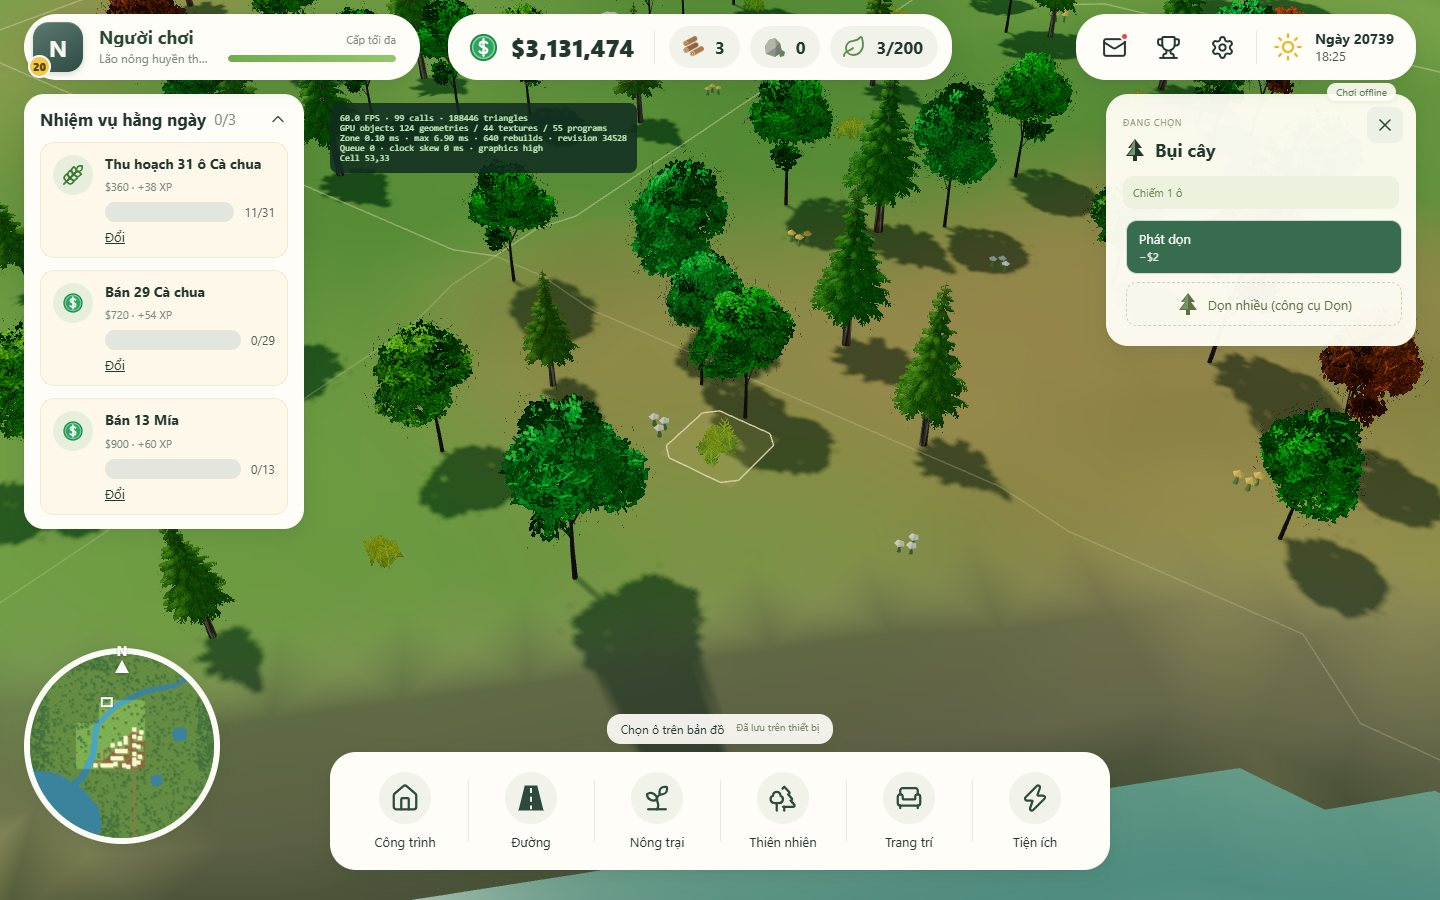
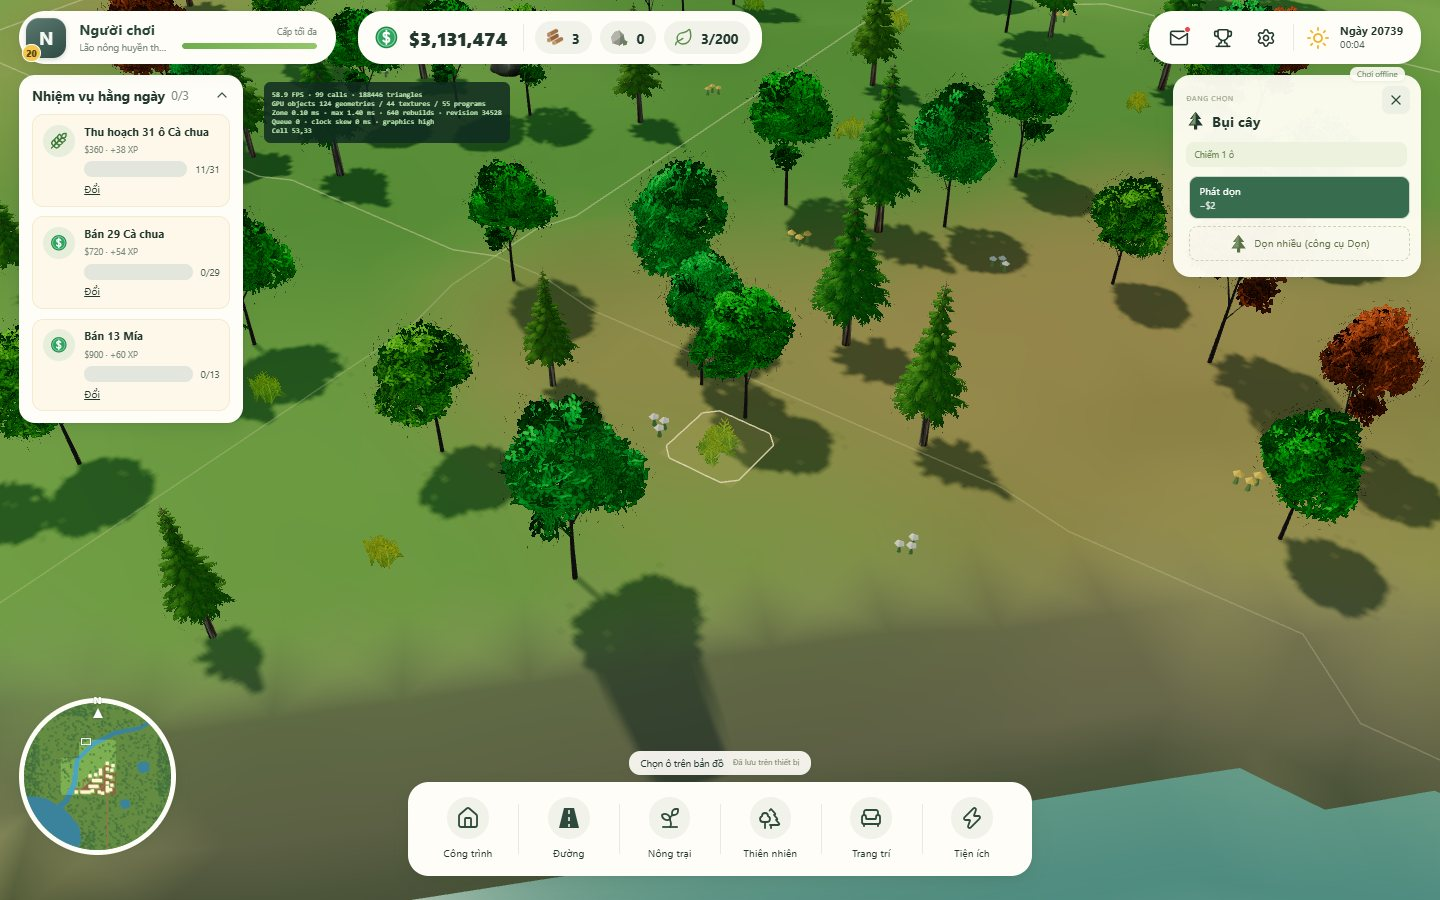
docs(d036): night QA at 23:00, refreshed evidence, decision
Night captures moved from 22:00 to 23:00 (22:00 is now the dusk frame); stale 22h/18h shots removed. All gates pass: foliage/scene 0.97-1.20, rice_mill lit, lamp cell vs neighbour 14x/101x at 23:00 and <= 2.3% by day.

diff --git a/docs/reports/D035-streetlight.md b/docs/reports/D035-streetlight.md
@@ -61,27 +61,33 @@ All 9 automated QA gates pass (`scripts/streetlight-qa.mjs`), all 10 night QA ga
 
 ## 5. Automated QA Evidence & Gates
 
+**D036 review update.** The first pool was a ~1 m near-white hot spot (texture without a colour space, values added as
+linear, fast cubic falloff) and the bulbs read as unlit (emissive 0.95 on bulbs a few pixels under their hoods). Now:
+the pool texture is sRGB warm amber `#ffc46e` at `POOL_LIGHT = 0.65`, full strength over ~45% of the half-cell then a
+smooth fade to the cell edge, so it covers the lamp's cell; bulbs glow at `LAMP_LIGHT = 1.8`, deliberately above the
+1.15 bloom threshold so a small halo marks a lit lamp. Night captures moved to 23:00 (full night since D036).
+
 Run via `node scripts/streetlight-qa.mjs` against offline full-world snapshots in headless Chrome:
 
 | Gate | Requirement | Farm | City | Verdict |
 |---|---|---:|---:|:---:|
-| 22:00 lit vs adjacent brightness | ≥ 2.0× | **9.21×** | **70.58×** | **PASS** |
-| 13:00 lit vs adjacent difference | ≤ 5.0% | **2.33%** | **0.23%** | **PASS** |
-| Cell 2 away unlit at 22:00 | No increase | **+0.0** | **+0.4** | **PASS** |
+| 23:00 lit vs adjacent brightness | ≥ 2.0× | **13.97×** | **101.40×** | **PASS** |
+| 13:00 lit vs adjacent difference | ≤ 5.0% | **2.33%** | **0.61%** | **PASS** |
+| Cell 2 away unlit at 23:00 | No increase | **+0.0** | **+0.4** | **PASS** |
 | Draw calls increase | ≤ 2 | **+2** (142 → 144) | **+1** (108 → 109) | **PASS** |
 | Console errors | 0 | **0** | **0** | **PASS** |
 
 ### Captured Screenshots (`docs/evidence/g4/streetlight/`)
 - `farm-close-13h-high.jpg`, `farm-close-13h-low.jpg`
-- `farm-close-22h-high.jpg`, `farm-close-22h-low.jpg`
+- `farm-close-23h-high.jpg`, `farm-close-23h-low.jpg`
 - `farm-mid-13h-high.jpg`, `farm-mid-13h-low.jpg`
-- `farm-mid-22h-high.jpg`, `farm-mid-22h-low.jpg`
-- `farm-pixel7-22h.jpg`
+- `farm-mid-23h-high.jpg`, `farm-mid-23h-low.jpg`
+- `farm-pixel7-23h.jpg`
 - `city-close-13h-high.jpg`, `city-close-13h-low.jpg`
-- `city-close-22h-high.jpg`, `city-close-22h-low.jpg`
+- `city-close-23h-high.jpg`, `city-close-23h-low.jpg`
 - `city-mid-13h-high.jpg`, `city-mid-13h-low.jpg`
-- `city-mid-22h-high.jpg`, `city-mid-22h-low.jpg`
-- `city-pixel7-22h.jpg`
+- `city-mid-23h-high.jpg`, `city-mid-23h-low.jpg`
+- `city-pixel7-23h.jpg`
 - `report.json`
 
 ## 6. Regression Testing

diff --git a/docs/DECISIONS.md b/docs/DECISIONS.md
@@ -472,3 +472,12 @@ Rendering & Night Lighting:
 
 Validation: `assets.test.ts` asserts 1 part, ≤ 800 triangles, footprint bounds, `_lamp` vertex attribute > 0, and CC-BY provenance. All 9 automated gates in `scripts/streetlight-qa.mjs` pass (night brightness ratio > 2×, day difference < 5%, far cell unaffected, draw call increase ≤ 2, 0 console errors) across 18 screenshots in `docs/evidence/g4/streetlight/`. Baseline `scripts/g4-night-qa.mjs` remains fully passing.
 
+
+## D036 - 2026-10-13 - Full night 23:00–05:00; brighter lamp bulbs, warm cell-wide lamp pools
+
+Owner request: full night runs 23:00–05:00. `NIGHT_PHASES` in `dayCycle.ts`: day 07–21, 2 h dusk 21–23, night 23–05,
+2 h dawn 05–07 (was day 07–17, dusk 17–19, night 19–05). "Luôn ban đêm" forces hour 23; the HUD's fallback icon uses
+the same hours. Night QA (`g4-night-qa`, `streetlight-qa`, `object-panel-qa`) now captures at 23:00; 22:00 is the
+dusk frame of the time comparison. Streetlight review: the ground pool is sRGB warm amber over most of the lamp's
+cell (was a ~1 m near-white hot spot) and the bulbs glow at 1.8 so a small bloom halo marks a lit lamp (at 0.95 they
+read as unlit). All night gates pass (foliage/scene 0.97–1.20, lamp cell vs neighbour 14×–101× at 23:00, ≤ 2.3 % by day).
